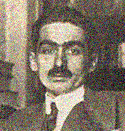
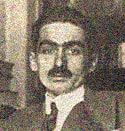
Add Descrição Imagem
@bruna2802 Compactado as imagens
e adicionado legenda do autor destaque

diff --git a/site/css/simbolismo.css b/site/css/simbolismo.css
@@ -47,7 +47,10 @@ hr {
     color:#5b4961;
 }
 
-
+small {
+    font-family: 'Zilla Slab', serif;
+    color: #604134;
+}
 
 aside p {
     font-family: 'Zilla Slab', serif;

diff --git a/site/simbolismo-autor-destaque.php b/site/simbolismo-autor-destaque.php
@@ -39,16 +39,15 @@
             <div class="container">
                 <div class="section">
                     <div class="row">
-                    
+
                         <h2 class="titulo text-center cor">Autor de Destaque</h2>
                         <div class="SI divisor"></div>
                         <!-- <hr class="hidden-xs"> -->
                         <div class="media">
-                            <div class="media-left media-middle text-center">
-
-                                <img class="media-object " src="
-            img/simb/cruz-e-souza.jpg" alt="Autor de Destaque " width="450">
-
+                            <div class="media-left media-middle">
+                                
+                                <img class="media-object " src="img/simb/cruz-e-souza.jpg" alt="Autor de Destaque">
+                                <cite><small>João Cruz e Sousa: Ilustração Digital relizado por Cleisson</small></cite>
                             </div>
 
                             <div class="media-body media-middle hidden-xs">
@@ -57,7 +56,8 @@
 
                                     "Filho de negros alforriados, João da Cruz ficou sob tutela da família do militar Guilherme Xavier de Sousa. Recebeu boa
                                     educação e combateu arduamente a escravidão e o preconceito racial no jornal Tribuna
-                                    Popular"</p>
+                                    Popular"
+                                </p>
                             </div>
                             <hr class="hidden-xs">
                             <div class="visible-xs lateral">
@@ -67,12 +67,15 @@
 
                                     "Filho de negros alforriados, João da Cruz ficou sob tutela da família do militar Guilherme Xavier de Sousa. Recebeu boa
                                     educação e combateu arduamente a escravidão e o preconceito racial no jornal Tribuna
-                                    Popular"</p>
+                                    Popular"
+                                </p>
+
                             </div>
                         </div>
                     </div>
                 </div>
             </div>
+
         </aside>
         <div class="container text-left">
             <div class="col-xs-12 col-md-8 col-md-offset-2 col-lg-8 col-lg-offset-2">
@@ -131,7 +134,9 @@
                             magnam rem, temporibus molestiae perspiciatis error, nisi nobis quidem quos! Illum consequuntur
                             nesciunt perspiciatis nostrum porro.
                         </p>
+                        <div class="section"></div>
                     </article>
+
                 </div>
             </div>
         </div>
